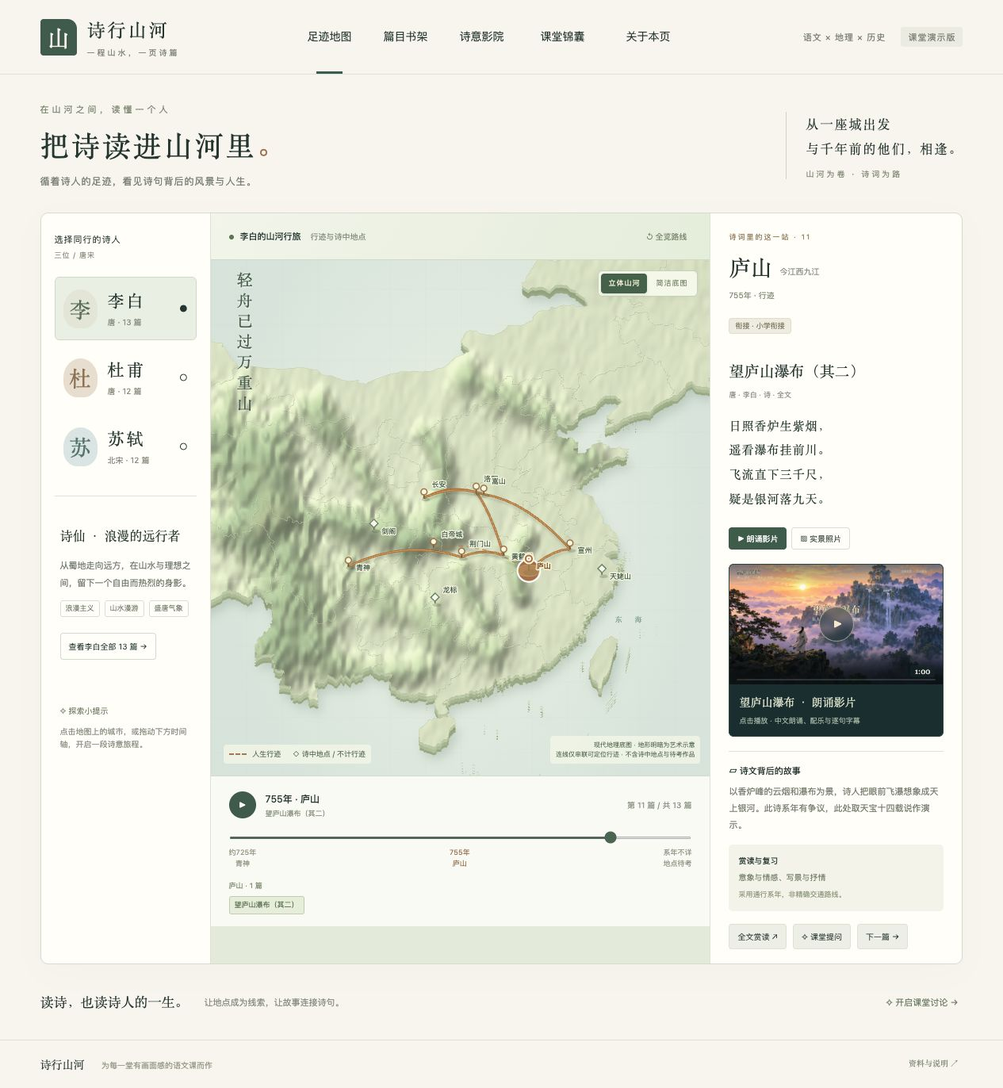
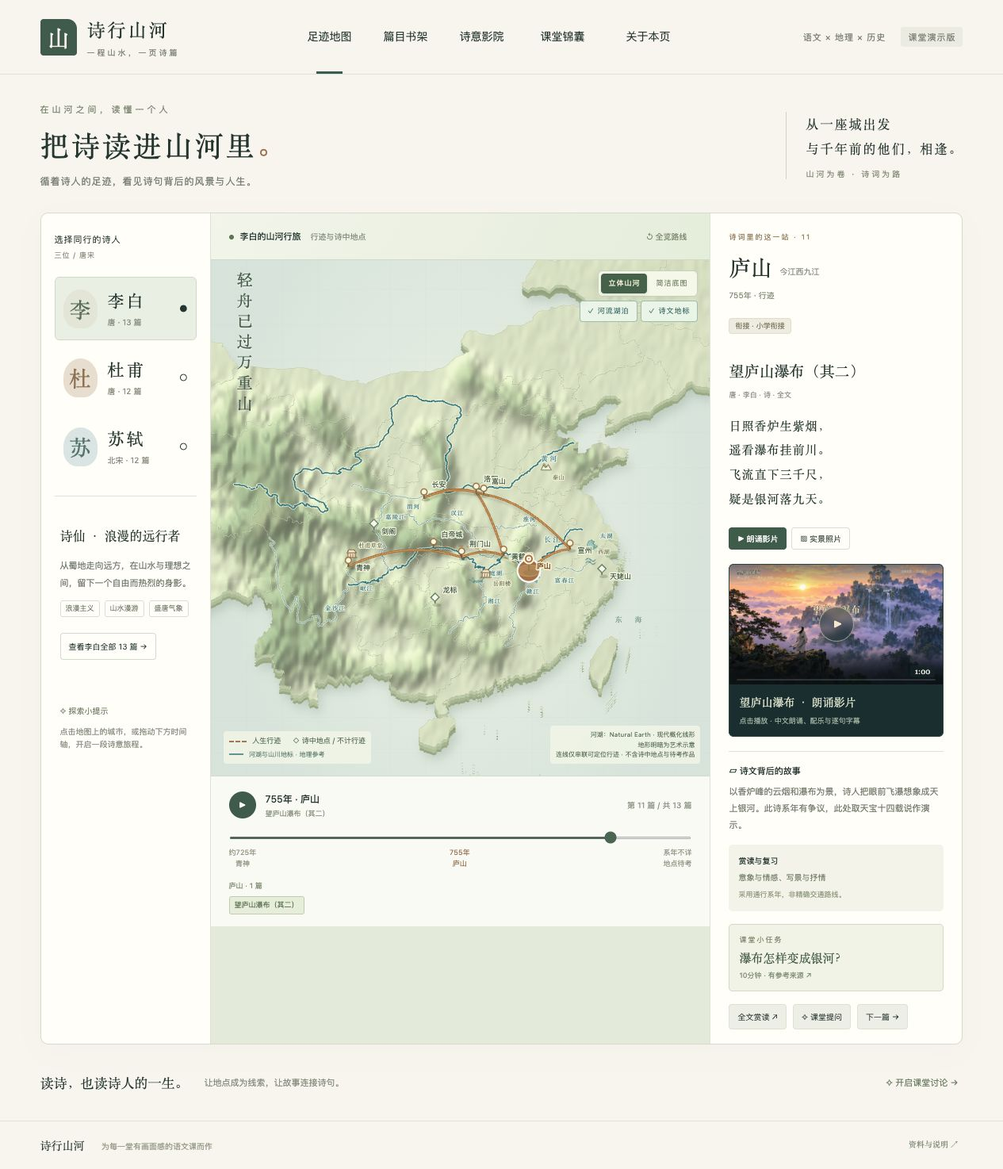
Add Natural Earth rivers, lakes and literary landmark layers

diff --git a/dist/geography.js b/dist/geography.js
@@ -1,0 +1,52 @@
+// Reuse physical geometry from Natural Earth; landmark anchors reuse the site's regional coordinates.
+let waterData=null,showWater=true,showLandmarks=true;
+const waterTopics={
+ yangtze:{name:'长江',kind:'river',anchor:[116.9,30.7],works:['lb-jingmen','lb-huanghe','lb-baidi','df-denggao','ss-nian'],note:'以长江作为阅读线索，比较送别、漂泊与怀古。地图展示现代概化河道，金色行迹弧线只表示本站精选地点的先后关系。'},
+ jinsha:{name:'金沙江',kind:'river',anchor:[101.8,27.7],works:[],note:'长江上游水系的地理参考。此图层没有为诗人增加行程，也不表示本页作品写于这条河流附近。'},
+ yellow:{name:'黄河',kind:'river',anchor:[116,36.7],works:['lb-jiangjin'],note:'可结合《将进酒》的黄河意象阅读。诗中出现黄河，不等于可以据此确定作者当时站在黄河岸边。'},
+ han:{name:'汉江',kind:'river',anchor:[110.2,32.7],works:[],note:'现代水系参考，帮助观察长安、长江中游一带的空间关系。不据河道推定作者的具体交通路线。'},
+ gan:{name:'赣江',kind:'river',anchor:[115.4,27.7],works:[],note:'用于观察江西水系与鄱阳湖一带的位置关系。河道和湖岸为现代概化资料，不是唐宋复原。'},
+ 'min-sichuan':{name:'岷江',kind:'river',anchor:[104.2,29.1],works:[],note:'四川盆地南部的水系参考。古今河名、支流与作品中地点的对应，仍需结合教材注释核对。'},
+ fuchun:{name:'富春江',kind:'river',anchor:[119.45,29.7],works:[],note:'浙江水系参考。保留 Natural Earth 的富春江命名范围，不把这条数据直接扩写成完整的钱塘江流域。'},
+ xiang:{name:'湘江',kind:'river',anchor:[112.7,27.2],works:[],note:'湖南水系参考，可与潭州、岳阳和洞庭湖的位置对照；未将地理邻近自动当成作品内容。'},
+ huai:{name:'淮河',kind:'river',anchor:[115.1,32.4],works:[],note:'淮河的现代概化线形，用于提供区域地理背景；本站不以此重建古代水运网络。'},
+ jialing:{name:'嘉陵江',kind:'river',anchor:[106.1,32.5],works:[],note:'四川、重庆一带的水系参考。古代具体行程仍以相关作品与年谱材料为依据。'},
+ wei:{name:'渭河',kind:'river',anchor:[107.3,34.5],works:[],note:'长安与秦州附近的区域地理参考，不代表当前行迹线沿渭河航行。'},
+ dongting:{name:'洞庭湖',kind:'lake',anchor:[112.4,28.9],works:['df-yueyang'],note:'与《登岳阳楼》一起观察湖泊、楼与诗人视野的关系。湖岸线经过概化，水域范围也会变化，不表示唐代湖面。'},
+ poyang:{name:'鄱阳湖',kind:'lake',anchor:[116.3,29.2],works:['ss-shizhong'],note:'可联系《石钟山记》中的彭蠡、湖口阅读；现代湖岸线不用于证明苏轼当年的精确行舟位置。'},
+ tai:{name:'太湖',kind:'lake',anchor:[120.2,31.2],works:[],note:'江南湖泊的地理参考。显示水域不意味着本站三位作者在此均有已收录作品。'}
+};
+const poemLandmarks=[
+ {id:'lushan',name:'庐山',kind:'mountain',region:'庐山',lon:115.99,lat:29.55,works:['lb-lushan','ss-xilin']},
+ {id:'taishan',name:'泰山',kind:'mountain',region:'泰山',lon:117.1,lat:36.25,works:['df-wangyue']},
+ {id:'songshan',name:'嵩山',kind:'mountain',region:'嵩山',lon:112.96,lat:34.49,works:['lb-jiangjin']},
+ {id:'tianmu',name:'天姥山',kind:'mountain',region:'天姥山',lon:120.91,lat:29.29,works:['lb-tianmu'],note:'这里与梦游文本关联，不能据梦境把它算作李白真实行迹。'},
+ {id:'huanghe-tower',name:'黄鹤楼',kind:'building',region:'黄鹤楼',lon:114.3,lat:30.55,works:['lb-huanghe']},
+ {id:'baidi',name:'白帝城',kind:'building',region:'白帝城',lon:109.58,lat:31.04,works:['lb-baidi']},
+ {id:'yueyang-tower',name:'岳阳楼',kind:'building',region:'岳阳',lon:113.1,lat:29.38,works:['df-yueyang'],source:'https://www.yueyang.gov.cn/yyskl/58123/58124/58129/content_1612371.html'},
+ {id:'dufu-cottage',name:'杜甫草堂',kind:'building',region:'成都',lon:104.07,lat:30.67,works:['df-kezhi','df-maowu']},
+ {id:'west-lake',name:'西湖',kind:'lake',region:'杭州',lon:120.15,lat:30.25,works:['ss-xihu']},
+ {id:'shizhong',name:'石钟山',kind:'mountain',region:'湖口',lon:116.22,lat:29.74,works:['ss-shizhong']}
+];
+function initGeography(){
+ for(const [id,key] of [['waterToggle','water'],['landmarkToggle','landmarks']])$(id).onclick=()=>{if(key==='water')showWater=!showWater;else showLandmarks=!showLandmarks;$(id).setAttribute('aria-pressed',String(key==='water'?showWater:showLandmarks));drawMap();};
+ fetch('assets/map/water.json').then(r=>{if(!r.ok)throw Error('water');return r.json();}).then(d=>{waterData=d;$('mapLayerStatus').textContent='河流湖泊参考图层已加载';drawMap();}).catch(()=>{$('mapLayerStatus').textContent='河湖图层暂不可用，行迹地图仍可使用';});
+}
+function waterPath(g){const line=c=>c.map((p,i)=>`${i?'L':'M'}${project(p[0],p[1]).map(v=>v.toFixed(2)).join(',')}`).join('');if(g.type==='LineString')return line(g.coordinates);if(g.type==='MultiLineString')return g.coordinates.map(line).join('');if(g.type==='Polygon')return g.coordinates.map(c=>line(c)+'Z').join('');if(g.type==='MultiPolygon')return g.coordinates.flatMap(poly=>poly.map(c=>line(c)+'Z')).join('');return '';}
+function coordinatePoints(c){if(c.length&&typeof c[0]==='number')return [c];return c.flatMap(coordinatePoints);}
+function renderGeographyLayers(groups){
+ const occupied=[],p=people[person],relief=mapStyle==='relief',cityPoints=[];
+ [...groups].forEach(([name,ids],n)=>{const current=ids.includes(step),s=p.stops[current?step:ids[0]],[x,y]=project(s[2],s[3]),lift=relief?(current?20:10):0;cityPoints.push([x,y]);occupied.push([x-10,y-lift-10,20,22],[x+10,y-lift+(n%2?-21:3),Math.max(25,name.length*13+8),19]);});
+ const intersects=(a,b)=>a[0]<b[0]+b[2]&&a[0]+a[2]>b[0]&&a[1]<b[1]+b[3]&&a[1]+a[3]>b[1];
+ function label(name,x,y,cls,priority=false){const width=name.length*(priority?12:10)+6;for(const [dx,dy] of [[12,-10],[12,20],[-width-10,-10],[-width-10,20],[0,-24],[0,32]]){const box=[x+dx-2,y+dy-13,width,17];if(box[0]<25||box[0]+width>810||occupied.some(b=>intersects(box,b)))continue;occupied.push(box);return `<text class="${cls}" x="${(x+dx).toFixed(2)}" y="${(y+dy).toFixed(2)}">${name}</text>`;}return '';}
+ let water='';
+ if(showWater&&waterData){const groupFeatures=new Map();for(const f of waterData.features){const id=f.properties.group;if(!groupFeatures.has(id))groupFeatures.set(id,[]);groupFeatures.get(id).push(f);}
+ for(const [id,features] of groupFeatures){const t=waterTopics[id];if(!t)continue;const major=id==='yangtze'||id==='yellow',active=t.works.some(id=>p.stops.some(s=>s[11].id===id));const paths=features.map(f=>waterPath(f.geometry));const [tx,ty]=project(...t.anchor);const points=features.flatMap(f=>coordinatePoints(f.geometry.coordinates)).map(c=>project(...c));const anchor=points.reduce((best,q)=>Math.hypot(q[0]-tx,q[1]-ty)<Math.hypot(best[0]-tx,best[1]-ty)?q:best,points[0]);const text=label(t.name,...anchor,`water-label ${major?'major':''}`,major);
+ water+=`<g class="geo-water ${t.kind} ${major?'major':''} ${active?'related':''}" data-geography="${id}" tabindex="0" role="button" aria-label="${t.name}，${t.kind==='lake'?'湖泊':'河流'}地理参考"><title>${t.name} · 现代概化地理参考</title>${paths.map(d=>t.kind==='river'?`<path class="water-bank" d="${d}"/><path class="water-line" d="${d}"/><path class="water-hit" d="${d}"/>`:`<path class="water-lake" fill-rule="evenodd" d="${d}"/>`).join('')}${text}</g>`;}
+ }
+ let landmarks='';if(showLandmarks)for(const mark of poemLandmarks){const [x,y]=project(mark.lon,mark.lat);if(groups.has(mark.region)||cityPoints.some(q=>Math.hypot(q[0]-x,q[1]-y)<15))continue;const icon=mark.kind==='mountain'?'<path d="M-7 5L-2 -6 2 0 5 -4 10 5Z M-3 -4L0 1 2 0"/>':mark.kind==='lake'?'<path d="M-8 0Q-4 -5 0 0T8 0 M-8 5Q-4 0 0 5T8 5"/>':'<path d="M-8 -1H8L4 -6H-4Z M-6 0V7H6V0 M-9 7H9 M-2 1V7 M2 1V7"/>';
+ landmarks+=`<g class="geo-landmark ${mark.kind}" data-geography="landmark:${mark.id}" tabindex="0" role="button" aria-label="${mark.name}，诗文地标参考"><title>${mark.name} · 区域示意，点击读相关作品</title><circle class="landmark-hit" cx="${x}" cy="${y}" r="15"/><g class="landmark-icon" transform="translate(${x},${y})">${icon}</g>${label(mark.name,x,y,'landmark-label')}</g>`;}
+ return `<g class="geography-water">${water}</g><g class="geography-landmarks">${landmarks}</g>`;
+}
+function bindGeography(){document.querySelectorAll('[data-geography]').forEach(el=>{el.onclick=()=>showGeography(el.dataset.geography);el.onkeydown=e=>{if(e.key==='Enter'||e.key===' '){e.preventDefault();showGeography(el.dataset.geography);}};});}
+function showGeography(id){const landmark=id.startsWith('landmark:'),t=landmark?poemLandmarks.find(m=>m.id===id.slice(9)):waterTopics[id];if(!t)return;stop();const works=t.works.map(id=>allWorks.find(w=>w.meta.id===id)).filter(Boolean);showModal(`<div class="geography-reader"><p class="eyebrow">${landmark?'诗文地标 · 区域示意':'河流湖泊 · 现代地理参考'}</p><h2>${t.name}</h2><p>${t.note||(landmark?'地标点沿用本站教学站点的区域坐标，用于全国尺度阅读，不是建筑的精确定位。':'')}</p>${landmark?'<p class="geo-caution">这是地理参考图层，不据此为任何诗人增加行迹。具体作品的亲历、诗中地点和系年说明，请打开原文核对。</p>':''}<h3>${works.length?'从这里，读一首诗':'读图小提示'}</h3>${works.length?works.map(w=>`<button class="geo-work" data-geo-work="${w.meta.id}"><strong>${w.s[5]}</strong><small>${people[w.a].name} · ${w.s[0]} · ${w.meta.role}</small><span>原文与站点 →</span></button>`).join(''):'<p>蓝色水系与金色行迹线用途不同：前者帮助定位，后者串联精选人生片段。河流邻近某站点，不足以证明作品在河岸写成。</p>'}<div class="geography-source"><h3>来源与读图边界</h3>${landmark?`<p>位置沿用本站相关作品的区域坐标，不新增精确定位结论。${t.source?`<a href="${t.source}" target="_blank" rel="noopener noreferrer">地标资料参考 ↗</a>`:''}</p>`:'<p>Made with Natural Earth · 公版矢量数据；本站筛选、中文标注并重新配色。</p><a href="https://www.naturalearthdata.com/downloads/10m-physical-vectors/10m-rivers-lake-centerlines/" target="_blank" rel="noopener noreferrer">河流数据 ↗</a> · <a href="https://www.naturalearthdata.com/downloads/10m-physical-vectors/10m-lakes/" target="_blank" rel="noopener noreferrer">湖泊数据 ↗</a> · <a href="https://www.naturalearthdata.com/about/terms-of-use/" target="_blank" rel="noopener noreferrer">许可说明 ↗</a><p>现代概化河道、湖岸线，不是唐宋水系复原，也不用于精确导航。</p>'}</div></div>`);document.querySelectorAll('[data-geo-work]').forEach(b=>b.onclick=()=>openWork(b.dataset.geoWork));}

diff --git a/dist/style.css b/dist/style.css
@@ -15,3 +15,6 @@ nav a{display:flex;align-items:center;height:100%;position:relative;color:inheri
 
 /* Small, source-attributed classroom tasks. */
 .lesson-cta{display:flex;flex-direction:column;gap:5px;width:100%;text-align:left;border:1px solid #d8dfca;background:#f3f5e9;border-radius:5px;padding:12px;margin:16px 0}.lesson-cta span{font-size:9px;letter-spacing:2px;color:#8e9579}.lesson-cta strong{font:15px "Songti SC",serif;color:#4f6950}.lesson-cta small{font-size:9px;color:#8b967f}.teaching-hub h2,.lesson-plan h2{margin-bottom:8px}.teach-principle{display:flex;flex-wrap:wrap;gap:10px;padding:14px;background:#ecf1e3;border-radius:6px;margin:20px 0;color:#6a805d}.teach-principle span{font-size:11px}.teach-filters{display:flex;gap:8px;margin:20px 0}.teach-filters button{font-size:11px;padding:7px 12px;border:1px solid #d7e0ca;border-radius:5px}.teach-filters button[aria-pressed=true]{background:#4d6b53;color:#fff}.teach-cards{display:grid;grid-template-columns:repeat(2,minmax(0,1fr));gap:13px}.teach-cards article{padding:19px;border:1px solid #dfe5d5;border-radius:7px;background:#fafbf5;display:flex;flex-direction:column}.teach-meta{font-size:10px;color:#8c9278}.teach-cards h3{font:21px/1.5 "Songti SC",serif;margin:8px 0}.teach-cards small{font-size:10px;color:#89977b}.teach-cards p{font-size:12px;line-height:1.8}.teach-cards button{text-align:left;color:#54704f;font-size:11px;padding:0;margin-top:auto}.teach-references{margin-top:24px;border-top:1px solid #dfe5d5;padding-top:16px}.teach-references summary,.teacher-hint summary{cursor:pointer;color:#58744f;font-size:12px}.teach-source{padding:13px 0;border-top:1px solid #e7ebde}.teach-source>a{font-size:12px}.teach-source small{display:block;font-size:9px;color:#949c87;line-height:1.9;margin:5px 0}.teach-source p{font-size:11px;margin:6px 0}.teach-source b{font-weight:500}.teach-back{color:#71856a;font-size:11px;padding:0;margin-bottom:20px}.lesson-goal{padding:18px;background:#ecf1e3;border-left:3px solid #789264;border-radius:4px;margin:20px 0}.lesson-goal strong,.lesson-goal b{font-size:11px;color:#5f7954;font-weight:500}.lesson-goal p{font-size:13px;margin:6px 0 12px}.lesson-goal p:last-child{margin-bottom:0}.lesson-work-links{display:flex;gap:10px;flex-wrap:wrap;margin:15px 0}.lesson-work-links a{font-size:11px}.lesson-steps{list-style:none;counter-reset:lesson;padding:0}.lesson-steps>li{counter-increment:lesson;position:relative;padding:18px 0 18px 42px;border-top:1px solid #e1e7d6}.lesson-steps>li:before{content:counter(lesson,decimal-leading-zero);position:absolute;left:0;top:20px;color:#b08755;font:19px Georgia,serif}.lesson-steps>li>div{display:flex;align-items:center;justify-content:space-between}.lesson-steps h3{font:20px "Songti SC",serif;margin:0;color:#435e48}.lesson-steps small{font-size:10px;color:#8b987e}.lesson-steps p{font-size:12px;margin:9px 0}.lesson-output{background:#f3f5ea;padding:9px 12px;border-radius:4px;color:#7b876a!important}.lesson-output b{font-weight:500}.lesson-check{padding:17px;background:#f1f4e9;border-radius:5px}.lesson-check h3,.lesson-sources h3{font:19px "Songti SC",serif;margin:0 0 14px}.lesson-check label{display:flex;align-items:flex-start;gap:8px;font-size:12px;color:#7a886c;line-height:1.8;margin:9px 0}.lesson-check input{accent-color:#56764f;margin-top:4px}.teacher-hint{margin:20px 0}.teacher-hint p{font-size:12px}.teacher-hint small,.teach-note{font-size:10px!important;color:#939d87!important}.lesson-download{margin:22px 0;display:flex;flex-direction:column;gap:8px}.lesson-download button{background:#4e6e53;color:#f8f6e9;padding:10px 14px;border-radius:5px;font-size:12px;align-self:flex-start}.lesson-download small{font-size:10px;color:#9aa28d}.lesson-sources{border-top:1px solid #dce3d0;padding-top:20px}dialog:has(.teaching-hub),dialog:has(.lesson-plan){max-width:900px;max-height:90vh;overflow:auto}@media(max-width:600px){.teach-cards{grid-template-columns:1fr}.teach-principle{gap:8px}.teach-principle span{font-size:10px}.lesson-steps h3{font-size:17px}.lesson-steps>li{padding-left:33px}.lesson-work-links{flex-direction:column}.teach-filters button{font-size:10px;padding:7px 9px}}
+
+/* Physical water geometry is reused; colors and landmark glyphs follow the paper-and-ink palette. */
+.map-layer-switch{position:absolute;right:15px;top:51px;z-index:2;display:flex;gap:4px}.map-layer-switch button{font-size:9px;letter-spacing:1px;background:#f8fbefed;border:1px solid #ccd8c3;color:#87957c;padding:5px 9px;border-radius:4px}.map-layer-switch button[aria-pressed=true]{color:#477975;border-color:#a7c4b6;background:#eef7ecf2}.map-layer-switch button[aria-pressed=true]:before{content:'✓ ';color:#5c8d7f}.geo-water{cursor:pointer}.water-bank{fill:none;stroke:#f4f7e6;stroke-width:3.3;opacity:.64;stroke-linecap:round;stroke-linejoin:round;pointer-events:none}.water-line{fill:none;stroke:#689ca0;stroke-width:1.15;opacity:.72;stroke-linecap:round;stroke-linejoin:round;pointer-events:none}.geo-water.major .water-bank{stroke-width:5}.geo-water.major .water-line{stroke:#4f8f94;stroke-width:2;opacity:.9}.geo-water.related .water-line{stroke:#397f86;opacity:1}.water-hit{fill:none;stroke:transparent;stroke-width:10;pointer-events:stroke}.water-lake{fill:#9cc5c0;fill-opacity:.8;stroke:#6e9f9a;stroke-width:.8}.water-label{fill:#477e81;font:10px "Songti SC",serif;letter-spacing:1.5px;paint-order:stroke;stroke:#edf4e6;stroke-width:3px;stroke-linejoin:round;pointer-events:none}.water-label.major{font-size:12px;letter-spacing:3px;fill:#387d85}.geo-water:hover .water-line,.geo-water:focus-visible .water-line{stroke:#266873;stroke-width:2.6;opacity:1}.geo-water:hover .water-lake,.geo-water:focus-visible .water-lake{fill:#6eb6b2}.geo-water:focus-visible,.geo-landmark:focus-visible{outline:none}.geo-water:focus-visible text,.geo-landmark:focus-visible text{text-decoration:underline}.geo-landmark{cursor:pointer}.landmark-hit{fill:transparent;stroke:none}.landmark-icon{fill:#f7f1db;stroke:#7d8764;stroke-width:1.25;stroke-linejoin:round;stroke-linecap:round;filter:drop-shadow(0 1px 1px #42573b33);pointer-events:none}.geo-landmark.building .landmark-icon{stroke:#967751;fill:#f5ebd2}.geo-landmark.lake .landmark-icon{stroke:#609795;fill:none}.landmark-label{font:10px "Songti SC",serif;fill:#747e58;paint-order:stroke;stroke:#f5f3df;stroke-width:3px;stroke-linejoin:round;pointer-events:none}.geo-landmark:hover .landmark-icon,.geo-landmark:focus-visible .landmark-icon{stroke:#a8713e;stroke-width:2}.geo-legend{display:block;font-size:8px;line-height:1.7;margin-top:3px;color:#698779}.geo-legend b{display:inline-block;width:18px;border-top:2px solid #6c9e9e;vertical-align:middle;margin-right:5px}.geography-reader h3{font:19px "Songti SC",serif;margin-top:24px}.geo-caution{font-size:11px!important;padding:10px 13px;background:#f1f4e6;border-radius:4px}.geo-work{width:100%;display:grid;grid-template-columns:1fr auto;gap:5px;padding:13px 0;text-align:left;border-bottom:1px solid #e1e7d5}.geo-work strong{font:17px "Songti SC",serif}.geo-work small{grid-column:1;font-size:10px;color:#8d997d}.geo-work span{grid-column:2;grid-row:1/3;align-self:center;font-size:10px;color:#708768}.geography-source{margin-top:24px;border-top:1px solid #dbe4cf;padding-top:3px}.geography-source p{font-size:11px}.geography-source a{font-size:11px}@media(max-width:800px){.map-layer-switch{right:10px;top:43px}.map-layer-switch button{font-size:8px;padding:4px 6px}.geo-legend{font-size:7px}.map-note{font-size:7px;max-width:46%}.map-legend{max-width:49%}.map-legend span{display:block;margin-left:0}.geo-work strong{font-size:15px}}

diff --git a/dist/index.html b/dist/index.html
@@ -1,1 +1,1 @@
-<!doctype html><html lang="zh-CN"><meta charset="utf-8"><meta name="viewport" content="width=device-width,initial-scale=1"><title>诗行山河 · 跟着诗词去远方</title><link rel="stylesheet" href="style.css"><body><header><a class="brand" href="."><b>山</b><span>诗行山河<small>一程山水，一页诗篇</small></span></a><nav id="siteNav" aria-label="主导航"></nav><span class="edition">语文 × 地理 × 历史 <i>课堂演示版</i></span></header><main><section class="intro"><div><p class="eyebrow">在山河之间，读懂一个人</p><h1>把诗读进山河里<span>。</span></h1><p>循着诗人的足迹，看见诗句背后的风景与人生。</p></div><div class="intro-note">从一座城出发<br>与千年前的他们，相逢。<span>山河为卷 · 诗词为路</span></div></section><section class="workspace"><aside class="people"><div class="section-label">选择同行的诗人 <span>三位 / 唐宋</span></div><div id="people"></div><div class="bio" id="bio"></div><div class="tip"><span>✧ 探索小提示</span><p>点击地图上的城市，或拖动下方时间轴，开启一段诗意旅程。</p></div></aside><section class="map-panel"><div class="map-head"><div><span class="live-dot"></span><strong id="mapTitle"></strong><small>行迹与诗中地点</small></div><button id="reset">↺ 全览路线</button></div><div class="map-wrap"><div class="map-view-switch" role="group" aria-label="地图显示方式"><button data-map-style="relief" aria-pressed="true">立体山河</button><button data-map-style="flat" aria-pressed="false">简洁底图</button></div><svg id="map" viewBox="0 0 840 650" aria-label="诗人人生足迹地图"></svg><div class="map-quote" id="mapQuote"></div><div class="map-legend"><i></i> 人生行迹 <span>◇ 诗中地点 / 不计行迹</span></div><div class="map-note">现代地理底图 · 地形明暗为艺术示意<br>连线仅串联可定位行迹 · 不含诗中地点与待考作品</div></div><div class="timeline"><div class="playrow"><button id="play" aria-label="播放足迹">▶</button><div><strong id="timeTitle"></strong><small id="timeSubtitle"></small></div><span id="progress"></span></div><input id="range" type="range" min="0" max="3" value="0" aria-label="人生足迹时间轴"><div id="ticks"></div><div id="stationWorks"></div></div></section><aside class="detail" id="detail"></aside></section><section class="bottom"><span>读诗，也读诗人的一生。</span><p>让地点成为线索，让故事连接诗句。</p><button id="questionBtn">✧ 开启课堂讨论 →</button></section></main><footer>诗行山河 <span>为每一堂有画面感的语文课而作</span><button id="sources">资料与说明 ↗</button></footer><dialog id="modal"><button id="close" aria-label="关闭">×</button><div id="modalBody"></div></dialog><script src="teaching.js"></script><script src="photos.js"></script><script src="curriculum.js"></script><script src="cinema.js"></script><script src="poetry-data.js"></script><script src="library.js"></script><script src="map.js"></script><script src="app.js"></script><script src="site-nav.js"></script></body></html>
+<!doctype html><html lang="zh-CN"><meta charset="utf-8"><meta name="viewport" content="width=device-width,initial-scale=1"><title>诗行山河 · 跟着诗词去远方</title><link rel="stylesheet" href="style.css"><body><header><a class="brand" href="."><b>山</b><span>诗行山河<small>一程山水，一页诗篇</small></span></a><nav id="siteNav" aria-label="主导航"></nav><span class="edition">语文 × 地理 × 历史 <i>课堂演示版</i></span></header><main><section class="intro"><div><p class="eyebrow">在山河之间，读懂一个人</p><h1>把诗读进山河里<span>。</span></h1><p>循着诗人的足迹，看见诗句背后的风景与人生。</p></div><div class="intro-note">从一座城出发<br>与千年前的他们，相逢。<span>山河为卷 · 诗词为路</span></div></section><section class="workspace"><aside class="people"><div class="section-label">选择同行的诗人 <span>三位 / 唐宋</span></div><div id="people"></div><div class="bio" id="bio"></div><div class="tip"><span>✧ 探索小提示</span><p>点击地图上的城市，或拖动下方时间轴，开启一段诗意旅程。</p></div></aside><section class="map-panel"><div class="map-head"><div><span class="live-dot"></span><strong id="mapTitle"></strong><small>行迹与诗中地点</small></div><button id="reset">↺ 全览路线</button></div><div class="map-wrap"><div class="map-view-switch" role="group" aria-label="地图显示方式"><button data-map-style="relief" aria-pressed="true">立体山河</button><button data-map-style="flat" aria-pressed="false">简洁底图</button></div><div class="map-layer-switch" role="group" aria-label="地理参考图层"><button id="waterToggle" aria-pressed="true">河流湖泊</button><button id="landmarkToggle" aria-pressed="true">诗文地标</button></div><span id="mapLayerStatus" class="sr-only" role="status">正在加载河湖参考图层</span><svg id="map" viewBox="0 0 840 650" aria-label="诗人人生足迹地图"></svg><div class="map-quote" id="mapQuote"></div><div class="map-legend"><i></i> 人生行迹 <span>◇ 诗中地点 / 不计行迹</span><small class="geo-legend"><b></b> 河湖与山川地标 · 地理参考</small></div><div class="map-note">河湖：Natural Earth · 现代概化线形<br>地形明暗为艺术示意<br>连线仅串联可定位行迹 · 不含诗中地点与待考作品</div></div><div class="timeline"><div class="playrow"><button id="play" aria-label="播放足迹">▶</button><div><strong id="timeTitle"></strong><small id="timeSubtitle"></small></div><span id="progress"></span></div><input id="range" type="range" min="0" max="3" value="0" aria-label="人生足迹时间轴"><div id="ticks"></div><div id="stationWorks"></div></div></section><aside class="detail" id="detail"></aside></section><section class="bottom"><span>读诗，也读诗人的一生。</span><p>让地点成为线索，让故事连接诗句。</p><button id="questionBtn">✧ 开启课堂讨论 →</button></section></main><footer>诗行山河 <span>为每一堂有画面感的语文课而作</span><button id="sources">资料与说明 ↗</button></footer><dialog id="modal"><button id="close" aria-label="关闭">×</button><div id="modalBody"></div></dialog><script src="teaching.js"></script><script src="photos.js"></script><script src="curriculum.js"></script><script src="cinema.js"></script><script src="poetry-data.js"></script><script src="library.js"></script><script src="geography.js"></script><script src="map.js"></script><script src="app.js"></script><script src="site-nav.js"></script></body></html>

diff --git a/dist/map.js b/dist/map.js
@@ -1,7 +1,7 @@
 // Shaded artistic relief, raised land edges and travel arcs; coordinates remain geographic.
 let mapStyle='relief';
 function project(lon,lat){return [60+(lon-97)*25,90+(42-lat)*26]}
-function initMapView(){new ResizeObserver(()=>drawMap()).observe($('map').parentElement);document.querySelectorAll('[data-map-style]').forEach(button=>button.onclick=()=>{mapStyle=button.dataset.mapStyle;document.querySelectorAll('[data-map-style]').forEach(b=>b.setAttribute('aria-pressed',String(b===button)));drawMap();});}
+function initMapView(){initGeography();new ResizeObserver(()=>drawMap()).observe($('map').parentElement);document.querySelectorAll('[data-map-style]').forEach(button=>button.onclick=()=>{mapStyle=button.dataset.mapStyle;document.querySelectorAll('[data-map-style]').forEach(b=>b.setAttribute('aria-pressed',String(b===button)));drawMap();});}
 function drawMap(){
  const p=people[person],svg=$('map'),relief=mapStyle==='relief';const box=svg.parentElement.getBoundingClientRect(),height=840*box.height/Math.max(1,box.width);svg.setAttribute('viewBox',`0 ${(650-height)/2} 840 ${height}`);let shapes='';
  if(geo)for(const f of geo.features){const polys=f.geometry.type==='MultiPolygon'?f.geometry.coordinates:[f.geometry.coordinates];for(const poly of polys){const d=poly.map(r=>r.map((c,i)=>`${i?'L':'M'}${project(c[0],c[1]).map(v=>v.toFixed(2)).join(',')}`).join('')+'Z').join('');shapes+=`<path d="${d}"/>`;}}
@@ -18,7 +18,8 @@ function drawMap(){
  <use href="#landShapes" class="province-lines" fill="none" stroke="${relief?'#647d5f':'#cbd3bf'}" stroke-opacity="${relief?'.24':'1'}" stroke-width=".65"/>
  ${relief?'<use href="#landShapes" fill="none" stroke="#f7f8dd" stroke-opacity=".3" stroke-width=".7" transform="translate(-.5,-.6)"/>':''}
  <text class="sea-label" x="680" y="500">东 海</text>
+ ${renderGeographyLayers(groups)}
  <g class="travel-arcs">${arcs.map(a=>`${relief?`<path class="arc-shadow" d="${a.d}" transform="translate(1,5)"/>`:''}<path class="travel-arc ${a.done?'visited':'future'}" d="${a.d}"/>${a.done&&relief?`<path class="arc-glint" d="${a.d}"/>`:''}`).join('')}</g>
  <g class="map-cities">${[...groups].map(([name,ids],n)=>{const current=ids.includes(step),i=current?step:ids[0],s=p.stops[i],[x,y]=project(s[2],s[3]),imagined=s[11].role==='诗中地点',height=relief?(current?20:10):0;return `<g class="city ${current?'current':''} ${imagined?'imagined':''}" tabindex="0" role="button" aria-label="${name}，${ids.length}篇作品${imagined?'，诗中地点':''}" aria-pressed="${current}" data-step="${i}" transform="translate(${x},${y})"><circle class="pin-hit" r="19"/>${relief?`<ellipse class="pin-shadow" cx="3" cy="3" rx="${current?12:7}" ry="${current?5:3}"/><path class="pin-stem" d="M0 0V${-height}"/>`:''}${current?'<ellipse class="pin-halo" rx="19" ry="10"/>':''}<g transform="translate(0,${-height})">${imagined?'<path class="pin-diamond" d="M0 -7L7 0 0 7 -7 0Z"/>':`<circle class="pin-head" r="${current?8:5}"/>`}${current?'<circle class="pin-center" r="2.5"/>':''}</g><text x="13" y="${-height+(n%2?-8:17)}">${name}${ids.length>1?' · '+ids.length+'篇':''}</text></g>`;}).join('')}</g>`;
- svg.querySelectorAll('.city').forEach(el=>{el.onclick=()=>select(+el.dataset.step);el.onkeydown=e=>{if(e.key==='Enter'||e.key===' '){e.preventDefault();select(+el.dataset.step);}}});
+ bindGeography();svg.querySelectorAll('.city').forEach(el=>{el.onclick=()=>select(+el.dataset.step);el.onkeydown=e=>{if(e.key==='Enter'||e.key===' '){e.preventDefault();select(+el.dataset.step);}}});
 }

diff --git a/dist/app.js b/dist/app.js
@@ -1,4 +1,4 @@
-let person=0,step=0,timer=null,geo=null,mediaMode="film";const $=id=>document.getElementById(id);const sources=[['初中2025课标公开版',curriculumSources.junior.url],['高中2025课标公开版',curriculumSources.high.url],['参考项目：江山时序','https://github.com/DeanChensj/jiangshan-map'],['古诗文网：诗文原文与创作背景','https://www.gushiwen.cn/'],['维基文库：古典诗词原典','https://zh.wikisource.org/'],['中华诗词网：《定风波》与题注','https://www.zhsc.org/work/work-1a16de8c10428a1420d837cd481eac46.htm'],['苏东坡专题：黄州五年','https://www.sudongpo.org/huang-zhou-wu-nian/'],['荆门山地望：云上宜都','https://cjy.hbyidu.com.cn/p/6795.html'],['地理底图：DataV 中国省级 GeoJSON','https://geo.datav.aliyun.com/areas_v3/bound/100000_full.json']];
+let person=0,step=0,timer=null,geo=null,mediaMode="film";const $=id=>document.getElementById(id);const sources=[['河流湖泊：Natural Earth','https://www.naturalearthdata.com/downloads/10m-physical-vectors/10m-rivers-lake-centerlines/'],['Natural Earth 公版许可','https://www.naturalearthdata.com/about/terms-of-use/'],['初中2025课标公开版',curriculumSources.junior.url],['高中2025课标公开版',curriculumSources.high.url],['参考项目：江山时序','https://github.com/DeanChensj/jiangshan-map'],['古诗文网：诗文原文与创作背景','https://www.gushiwen.cn/'],['维基文库：古典诗词原典','https://zh.wikisource.org/'],['中华诗词网：《定风波》与题注','https://www.zhsc.org/work/work-1a16de8c10428a1420d837cd481eac46.htm'],['苏东坡专题：黄州五年','https://www.sudongpo.org/huang-zhou-wu-nian/'],['荆门山地望：云上宜都','https://cjy.hbyidu.com.cn/p/6795.html'],['地理底图：DataV 中国省级 GeoJSON','https://geo.datav.aliyun.com/areas_v3/bound/100000_full.json']];
 function showModal(html){if($('poetryPlayer'))$('poetryPlayer').pause();$('modalBody').innerHTML=html;$('modal').showModal();$('modal').scrollTop=0}
 function currentPhoto(){if(['诗中地点','地点待考'].includes(people[person].stops[step][11].role))return null;return sitePhotos[{'庐山':'lushan','黄鹤楼':'huanghe','白帝城':'baidi','成都':'dufu','杭州':'xihu'}[people[person].stops[step][1]]]}
 function photoCredit(p){return `<a href="${p.source}" target="_blank" rel="noopener noreferrer">${p.author} · 维基共享资源 ↗</a> · <a href="${p.licenseUrl}" target="_blank" rel="noopener noreferrer">${p.license}</a>`}

diff --git a/scripts/prepare_water_data.py b/scripts/prepare_water_data.py
@@ -1,0 +1,25 @@
+"""Extract a small physical-water reference layer from Natural Earth GeoJSON.
+Usage: python3 scripts/prepare_water_data.py /path/to/downloaded/files
+Input files: rivers.geojson and lakes.geojson. No national boundaries are imported.
+"""
+import sys,json,pathlib,hashlib,math
+ROOT=pathlib.Path(__file__).resolve().parents[1]
+raw=pathlib.Path(sys.argv[1]) if len(sys.argv)>1 else pathlib.Path('/private/tmp/poetry-map-data')
+# Use stable source river identifiers, rather than matching ambiguous English names.
+rivers={15:('jinsha','金沙江'),18:('yangtze','长江'),1:('yangtze','长江'),66:('yellow','黄河'),95:('yellow','黄河'),270:('han','汉江'),278:('gan','赣江'),367:('min-sichuan','岷江'),385:('fuchun','富春江'),457:('xiang','湘江'),458:('huai','淮河'),538:('jialing','嘉陵江'),873:('wei','渭河')}
+lakes={'Tai Hu':('tai','太湖'),'Poyang Hu':('poyang','鄱阳湖'),'Dongting Hu':('dongting','洞庭湖')}
+def round_coords(c):
+ if c and isinstance(c[0],(float,int)):return [round(float(v),5) for v in c[:2]]
+ return [round_coords(x) for x in c]
+features=[]
+for kind in ['rivers','lakes']:
+ data=json.loads((raw/(kind+'.geojson')).read_text())
+ for i,f in enumerate(data['features']):
+  p=f['properties'];chosen=rivers.get(int(p.get('rivernum') or -1)) if kind=='rivers' else lakes.get(p.get('name'))
+  if not chosen:continue
+  group,zh=chosen;geom={'type':f['geometry']['type'],'coordinates':round_coords(f['geometry']['coordinates'])}
+  features.append({'type':'Feature','properties':{'id':f'{kind}-{i}','group':group,'name':zh,'source_name':p['name'],'kind':'river' if kind=='rivers' else 'lake','source_rivernum':p.get('rivernum'),'source_ne_id':p.get('ne_id'),'major':group in ['yangtze','yellow']},'geometry':geom})
+out=ROOT/'dist/assets/map/water.json';out.write_text(json.dumps({'type':'FeatureCollection','features':features},ensure_ascii=False,separators=(',',':'))+'\n')
+metadata={'name':'Natural Earth 1:10m physical rivers and lakes, selected features','accessed':'2026-10-21','license':'Public domain','terms':'https://www.naturalearthdata.com/about/terms-of-use/','rivers':'https://www.naturalearthdata.com/downloads/10m-physical-vectors/10m-rivers-lake-centerlines/','lakes':'https://www.naturalearthdata.com/downloads/10m-physical-vectors/10m-lakes/','upstream':'https://github.com/nvkelso/natural-earth-vector','downloads':{n:{'url':f'https://raw.githubusercontent.com/nvkelso/natural-earth-vector/master/geojson/ne_10m_{"rivers_lake_centerlines" if n=="rivers" else "lakes"}.geojson','sha256':hashlib.sha256((raw/(n+'.geojson')).read_bytes()).hexdigest()} for n in ['rivers','lakes']},'processing':'Selected source feature identifiers; coordinates rounded to 5 decimals; Chinese display names curated; no boundary geometry imported.','limitation':'Generalized modern reference geometry, not a reconstruction of Tang/Song waterways or a navigation map.','features':len(features),'groups':sorted(set(f['properties']['group'] for f in features))}
+(ROOT/'dist/assets/map/water-sources.json').write_text(json.dumps(metadata,ensure_ascii=False,indent=2)+'\n')
+print(len(features),'features;',len(metadata['groups']),'named groups;',out.stat().st_size,'bytes')

diff --git a/docs/MAP_SOURCES.md b/docs/MAP_SOURCES.md
@@ -1,0 +1,56 @@
+# 河流、湖泊与地标图层
+
+核对日期：2026-10-21。
+
+## 本次采用的复用方式
+
+采用 Natural Earth 的 **1:1000万物理地理矢量数据**，只提取河流、湖泊要素；沿用现有省级地理底图和本站配色，不引入新的行政边界。这里的“10m”是 1:10 million 的比例尺命名，不是10米空间分辨率。
+
+- [河流及湖泊中心线](https://www.naturalearthdata.com/downloads/10m-physical-vectors/10m-rivers-lake-centerlines/)
+- [湖泊与水库](https://www.naturalearthdata.com/downloads/10m-physical-vectors/10m-lakes/)
+- [Natural Earth 许可说明](https://www.naturalearthdata.com/about/terms-of-use/)：公版数据，可修改和再分发。本站保留 Made with Natural Earth 署名与链接。
+- [上游数据仓库](https://github.com/nvkelso/natural-earth-vector)：下载对应 GeoJSON，保留下载地址和文件 SHA-256，见 [water-sources.json](../dist/assets/map/water-sources.json)。本仓库不分发整套全球原始数据。
+
+选中20个源要素，组合为14个中文命名组：11条河流的选取线段，以及3个湖泊。坐标保留5位小数；画面使用本站现有投影、SVG笔触、青蓝配色、浅色描边和中文标签。数据不是手绘河流轨迹，也没有把河流改画成人生行迹线。
+
+## 已加入的内容
+
+| 类别 | 内容 |
+| --- | --- |
+| 河流 | 长江、金沙江、黄河、汉江、赣江、岷江、富春江、湘江、淮河、嘉陵江、渭河 |
+| 湖泊 | 洞庭湖、鄱阳湖、太湖 |
+| 诗文地标 | 庐山、泰山、嵩山、天姥山、黄鹤楼、白帝城、岳阳楼、杜甫草堂、西湖、石钟山 |
+
+地标位置沿用网站已有教学站点的区域坐标；例如杜甫草堂沿用成都站点，不能把全国尺度的小图标当作建筑入口的精确定位。岳阳楼另附 [岳阳市公开景区资料](https://www.yueyang.gov.cn/yyskl/58123/58124/58129/content_1612371.html)。相同或过近的地标与当前诗人的行迹标记合并展示，避免叠画；标签会尽量避让当前城市和其他标签。
+
+## 为什么选这个方案
+
+| 资源 | 本次判断 |
+| --- | --- |
+| Natural Earth 物理矢量 | 已采用：能只复用线形，重新配色；文件小，可以随静态网站分发，适合目前的全国尺度与留白风格。 |
+| OpenStreetMap | 备选：更适合将来需要街区、道路与细致地点的探索。[官方许可](https://www.openstreetmap.org/copyright)要求 ODbL 及署名；公共地图瓦片也有独立使用政策。本次未接入其数据或瓦片。 |
+| 现有 DataV 省级底图 | 保留：本次不改变原有定位与边界来源，也不另外加入路网和行政标签。 |
+
+这些是针对本站界面目的的选型判断，不是对所有地图产品的通用排名。地图风格由渲染方式决定，不需要直接复制第三方地图的整套视觉样式。
+
+## 教学与制图边界
+
+- 河道、湖岸均为现代概化参考，不是唐宋水系、岸线或水运网络复原。Natural Earth 的湖泊形状和河流线段也不是完整流域模型。
+- 地标、水系属于地理背景，开关或点击不会为任何诗人增加行迹。金色路线与蓝色水系在图例中分别说明。
+- 点击部分河湖可打开相关作品；这类关联用于主题阅读，不足以确认创作地点或具体行舟路线。其他水系只提供地理说明，不自动拼配诗句。
+- 《将进酒》写黄河，不证明作者当时在河岸；梦游天姥的地点不是李白亲历依据；富春江数据也未被扩写成完整钱塘江流域。
+- 地形明暗仍是程序绘制的艺术示意，不是测绘高程。地标图标为本站绘制，未复制第三方图片。
+
+## 维护与再生成
+
+下载 Natural Earth 上游的 `ne_10m_rivers_lake_centerlines.geojson` 和 `ne_10m_lakes.geojson`，分别保存为 `rivers.geojson`、`lakes.geojson`，然后运行：
+
+```bash
+python3 scripts/prepare_water_data.py /path/to/downloaded/files
+```
+
+脚本按上游河流标识和湖名选择要素，生成 `dist/assets/map/water.json` 与来源元数据。站点只读取本地生成文件，不向第三方地图服务发送访客请求。
+
+- `dist/geography.js`：中文说明、地标与作品关联、图层开关、标签避让和说明弹窗。
+- `dist/map.js`：将地理参考图层置于行迹与城市标记之下。
+- `scripts/prepare_water_data.py`：筛选与来源记录。

diff --git a/README.en.md b/README.en.md
@@ -11,6 +11,7 @@ A Chinese-language teaching demo for junior and senior high school students and 
 - **Travel map:** shaded artistic terrain, raised land edges, lifted travel arcs, and city pins, with a flat-map option. Explore by poet, location, and timeline. Each stop includes the full text, background, reading prompts, and classroom questions. Documented travel, locations mentioned in poems, and uncertain locations are distinguished.
 - **Poetry library:** a dedicated page with 37 works—13 by Li Bai, 12 by Du Fu, and 12 by Su Shi. Filter by author, school stage, source category, or keyword; read full texts, hide them for memorization, and return to the corresponding map stop.
 - **Poetry cinema:** three narrated films of about one minute each. Relevant map stops show a film cover; playback starts on click. Includes synthesized Mandarin narration, original synthesized music, Chinese subtitles, scene navigation, fullscreen, and downloads.
+- **Rivers, lakes, and literary landmarks:** restyled public-domain Natural Earth geometry adds selected segments of 11 rivers, 3 lakes, and 10 landmark references. Toggle layers independently and open related works where available. Modern water geometry and regional landmark markers do not add travel stops. See the [map sources and selection notes](docs/MAP_SOURCES.md) (Chinese).
 - **Present-day photography:** Lushan waterfall, Yellow Crane Tower, Baidi City, Du Fu’s cottage, and West Lake, with attribution, dates, and source licenses.
 - **Consistent navigation:** map, library, cinema, teaching tips, and project information. The homepage focuses on the map and the selected poem.
 
@@ -74,6 +75,7 @@ dist/                    Deployable static website
   poetry-data.js          Base works, poets, and travel data
   curriculum.js          Additional works and learning metadata
   map.js                 Relief layer, travel arcs, and city pins
+  geography.js           Water, landmarks, layer controls, and related works
   app.js                 Timeline and stop details
   library.js             Filters, reading, and curriculum notes
   cinema.js              Film catalog and playback

diff --git a/README.md b/README.md
@@ -11,6 +11,7 @@
 - **足迹地图**：立体山河明暗、陆地厚度、悬起的行迹弧线与城市标记，可切换简洁底图；按诗人、地点和时间探索；显示当前站点的诗文全文、背景故事与课堂提问。区分可定位行迹、诗中地点和待考地点，连线仅为精选行迹的先后示意。
 - **篇目书架**：独立页面收录37篇诗词与古文（李白13、杜甫12、苏轼12），支持作者、学段、来源分类和关键词筛选、遮文背诵，以及返回对应地图站点。
 - **诗意影院**：独立页面收录三段约一分钟的朗诵影片。对应站点显示影片封面，点击后才播放；配中文合成朗诵、原创合成配乐、逐句字幕、场景跳转、全屏及下载。
+- **河湖与诗文地标**：复用 Natural Earth 公版矢量线形，加入11条河流的选取线段、3个湖泊与10处地标。图层可独立开关，部分要素可联动作品；现代概化河道与区域地标不计入诗人行迹。详见 [地图来源与选型](docs/MAP_SOURCES.md)。
 - **当代实景照片**：庐山瀑布、黄鹤楼、白帝城、杜甫草堂和西湖，附作者、日期与授权来源。
 - **统一导航**：地图、书架、影院、课堂锦囊、关于本页；首页聚焦地图与当前诗文。
 
@@ -72,6 +73,7 @@ dist/                    静态网站，可直接托管
   poetry-data.js          基础作品、作者与行迹数据
   curriculum.js          补充作品及学习元数据
   map.js                 地形图层、行迹弧线与城市标记
+  geography.js           河湖、地标、图层开关与作品关联
   app.js                 时间轴与站点详情
   library.js             筛选、全文赏读与课标说明
   cinema.js              影片目录与播放器
